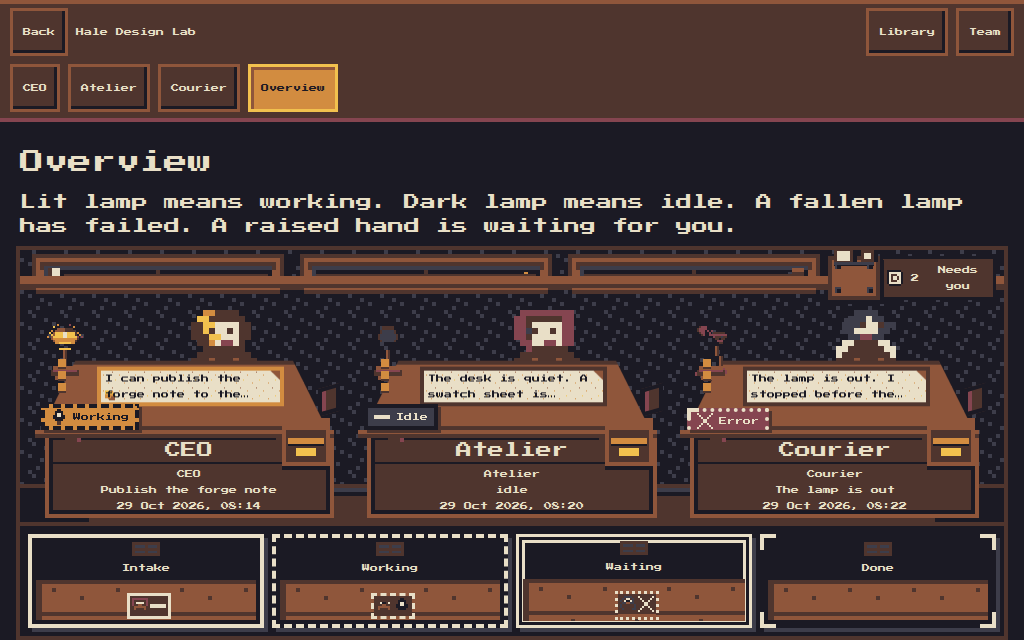
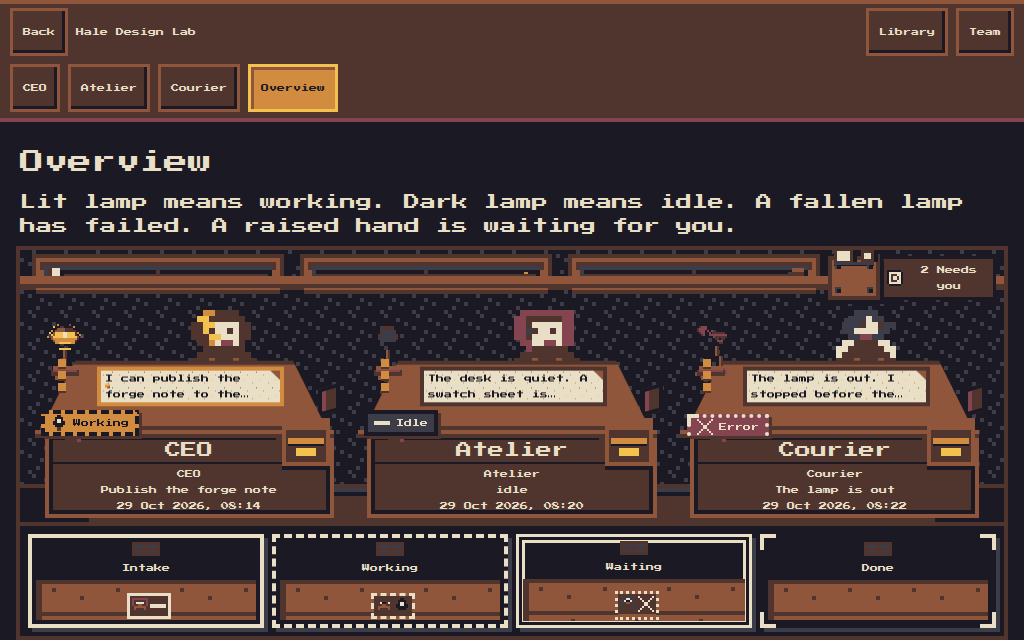
Keep overview status chips off the sheet type at 1024×640.
On the short hall the Working badge sat against the second line, and the lamp wash covered the f in forge. The badge now sits under the sheet, and the wash sits between the two ink lines. The fit check rejects a chip that intersects the visible sheet or the nameplate title.

diff --git a/client/e2e/overview-real-desks.spec.ts b/client/e2e/overview-real-desks.spec.ts
@@ -536,6 +536,7 @@ async function assertFitted(page: Page) {
     expect((contentBottom - contentTop) / room.height).toBeGreaterThan(0.5);
   }
   await assertTextVisible(page);
+  await assertStatusChipsClear(page);
 }
 
 /**
@@ -547,6 +548,61 @@ async function assertFitted(page: Page) {
  */
 const MIN_FIRST_LINE_CHARS = 16;
 const MIN_FIRST_LINE_WORDS = 4;
+
+/**
+ * Working, Idle, and Error. Chip boxes stay off the visible sheet ink and the nameplate title.
+ * At the short hall, the working lamp wash has to stay off that ink too: it was sitting on the f.
+ */
+async function assertStatusChipsClear(page: Page, wash = false) {
+  const issues = await page.evaluate((checkWash) => {
+    const visibleInk = (el: Element) => {
+      const host = el.getBoundingClientRect();
+      const range = document.createRange();
+      range.selectNodeContents(el);
+      return [...range.getClientRects()].filter((box) => {
+        if (box.width < 1 || box.height < 1) return false;
+        const mid = box.top + box.height / 2;
+        return mid >= host.top - 1 && mid <= host.bottom + 1;
+      });
+    };
+    const overlapArea = (a: DOMRect, b: DOMRect) => {
+      const width = Math.max(0, Math.min(a.right, b.right) - Math.max(a.left, b.left));
+      const height = Math.max(0, Math.min(a.bottom, b.bottom) - Math.max(a.top, b.top));
+      return width * height;
+    };
+    const issues: string[] = [];
+    for (const desk of document.querySelectorAll<HTMLElement>(".agent-desk")) {
+      const agent = desk.dataset.agent ?? "desk";
+      const chip = desk.querySelector(".overview-state .status-chip")?.getBoundingClientRect();
+      if (!chip) {
+        issues.push(`${agent} status chip missing`);
+        continue;
+      }
+      const sheet = desk.querySelector(".overview-line");
+      const title = desk.querySelector(".agent-desk-name");
+      for (const [kind, el] of [
+        ["sheet", sheet],
+        ["nameplate", title],
+      ] as const) {
+        if (!el) {
+          issues.push(`${agent} ${kind} missing`);
+          continue;
+        }
+        for (const frag of visibleInk(el)) {
+          if (overlapArea(chip, frag) > 0) issues.push(`${agent} chip intersects ${kind}`);
+        }
+      }
+      const pool = desk.querySelector("[data-light-pool='paper']")?.getBoundingClientRect();
+      if (checkWash && pool && sheet) {
+        for (const frag of visibleInk(sheet)) {
+          if (overlapArea(pool, frag) > 0) issues.push(`${agent} lamp wash intersects sheet`);
+        }
+      }
+    }
+    return issues;
+  }, wash);
+  expect(issues, issues.join("\n")).toEqual([]);
+}
 
 async function assertFirstLinesReadable(page: Page) {
   const lines = await page.locator(".agent-desk").evaluateAll((desks) =>
@@ -647,7 +703,10 @@ test.describe("overview desks match the fitted desk", () => {
       for (const count of [2, 3, 4]) {
         await applyTiles(page, count);
         await assertFitted(page);
-        if (size.width === 1024 && size.height === 640 && count === 3) await assertFirstLinesReadable(page);
+        if (size.width === 1024 && size.height === 640 && count === 3) {
+          await assertFirstLinesReadable(page);
+          await assertStatusChipsClear(page, true);
+        }
       }
       if (size.width !== 1024) continue;
       await applyTiles(page, 3);

diff --git a/client/src/index.css b/client/src/index.css
@@ -7730,9 +7730,22 @@ html[data-recede="dim"] .mail-caption {
     transform: translate(-100%, calc(-50% + 8px));
   }
 
+  /* Between the two ink lines, one sprite cell, so the wash stays off the type. */
+  .overview-desk [data-light-pool="paper"] {
+    left: 4px;
+    top: 13px;
+    bottom: auto;
+  }
+
+  .overview-desk [data-light-pool="paper"] canvas {
+    width: 8px !important;
+    height: 5px !important;
+  }
+
+  /* Under the sheet, clear of the name. */
   .overview-desk .overview-state {
     top: auto;
-    bottom: 0;
+    bottom: -6px;
     max-width: 78%;
   }
 
